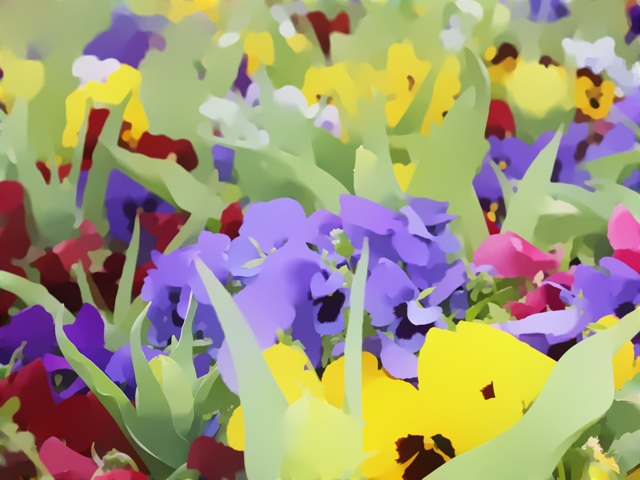
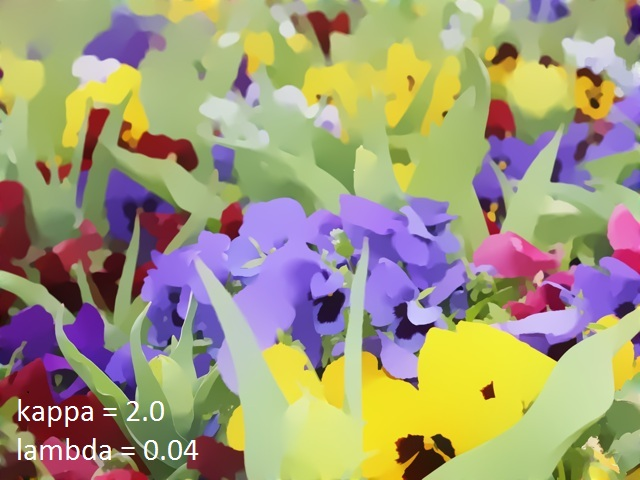
application

Changed region(s): [[0.0, 0.8125, 0.2812, 0.9688], [0.2188, 0.9062, 0.3125, 0.9688]]

diff --git a/application.html b/application.html
@@ -90,18 +90,20 @@
     <p>As a note for setting <code>-k</code>, for the sample flowers image referenced below, k = 2 requires ~22 iterations, k = 1.05 requires ~301 iterations, and k = 1.01 requres ~1441 iterations.</p>
 
     <h2>Output</h2>
-
-    <p>Original Picture:</p> 
-    <img src="img/original.jpg" alt="" width=400>
-    <p>Default Output (<code>-k = 2</code> and <code>-l = .02</code>):</p> 
-    <img src="img/default.jpg" alt="" width=400>
-    <p>Different Parameters:</p> 
-    <p><code>-k = 2</code> and <code>-l = .04</code></p>    
-    <img src="img/l04.jpg" alt="" width=400>
-    <p><code>-k = 4</code> and <code>-l = .04</code></p>    
-    <img src="img/k4.jpg" alt="" width=400>  
-  
-  
+    <p> 
+        <img src="img/original.jpg" alt="" width=400><img src="img/default.jpg" alt="" width=400>
+    </p>
+    <p>   
+        <img src="img/l04.jpg" alt="" width=400><img src="img/k4.jpg" alt="" width=400>
+    </p>
+    <p>
+        With the original picture, notice the details on the flower and the leaves. We increment
+        lambda, which controls the final level of image structure and smoothness. With a small
+        lambda, many of the details can be maintained. When we increase lambda, the smaller spatial
+        variation vanishes. The main structures, however, are still well maintained. We can also
+        increase kappa, the convergence speed. A lower kappa increases the quality of results at
+        the cost of more iterations.
+    </p
 </div>
 <!-- / Single content block -->
 
